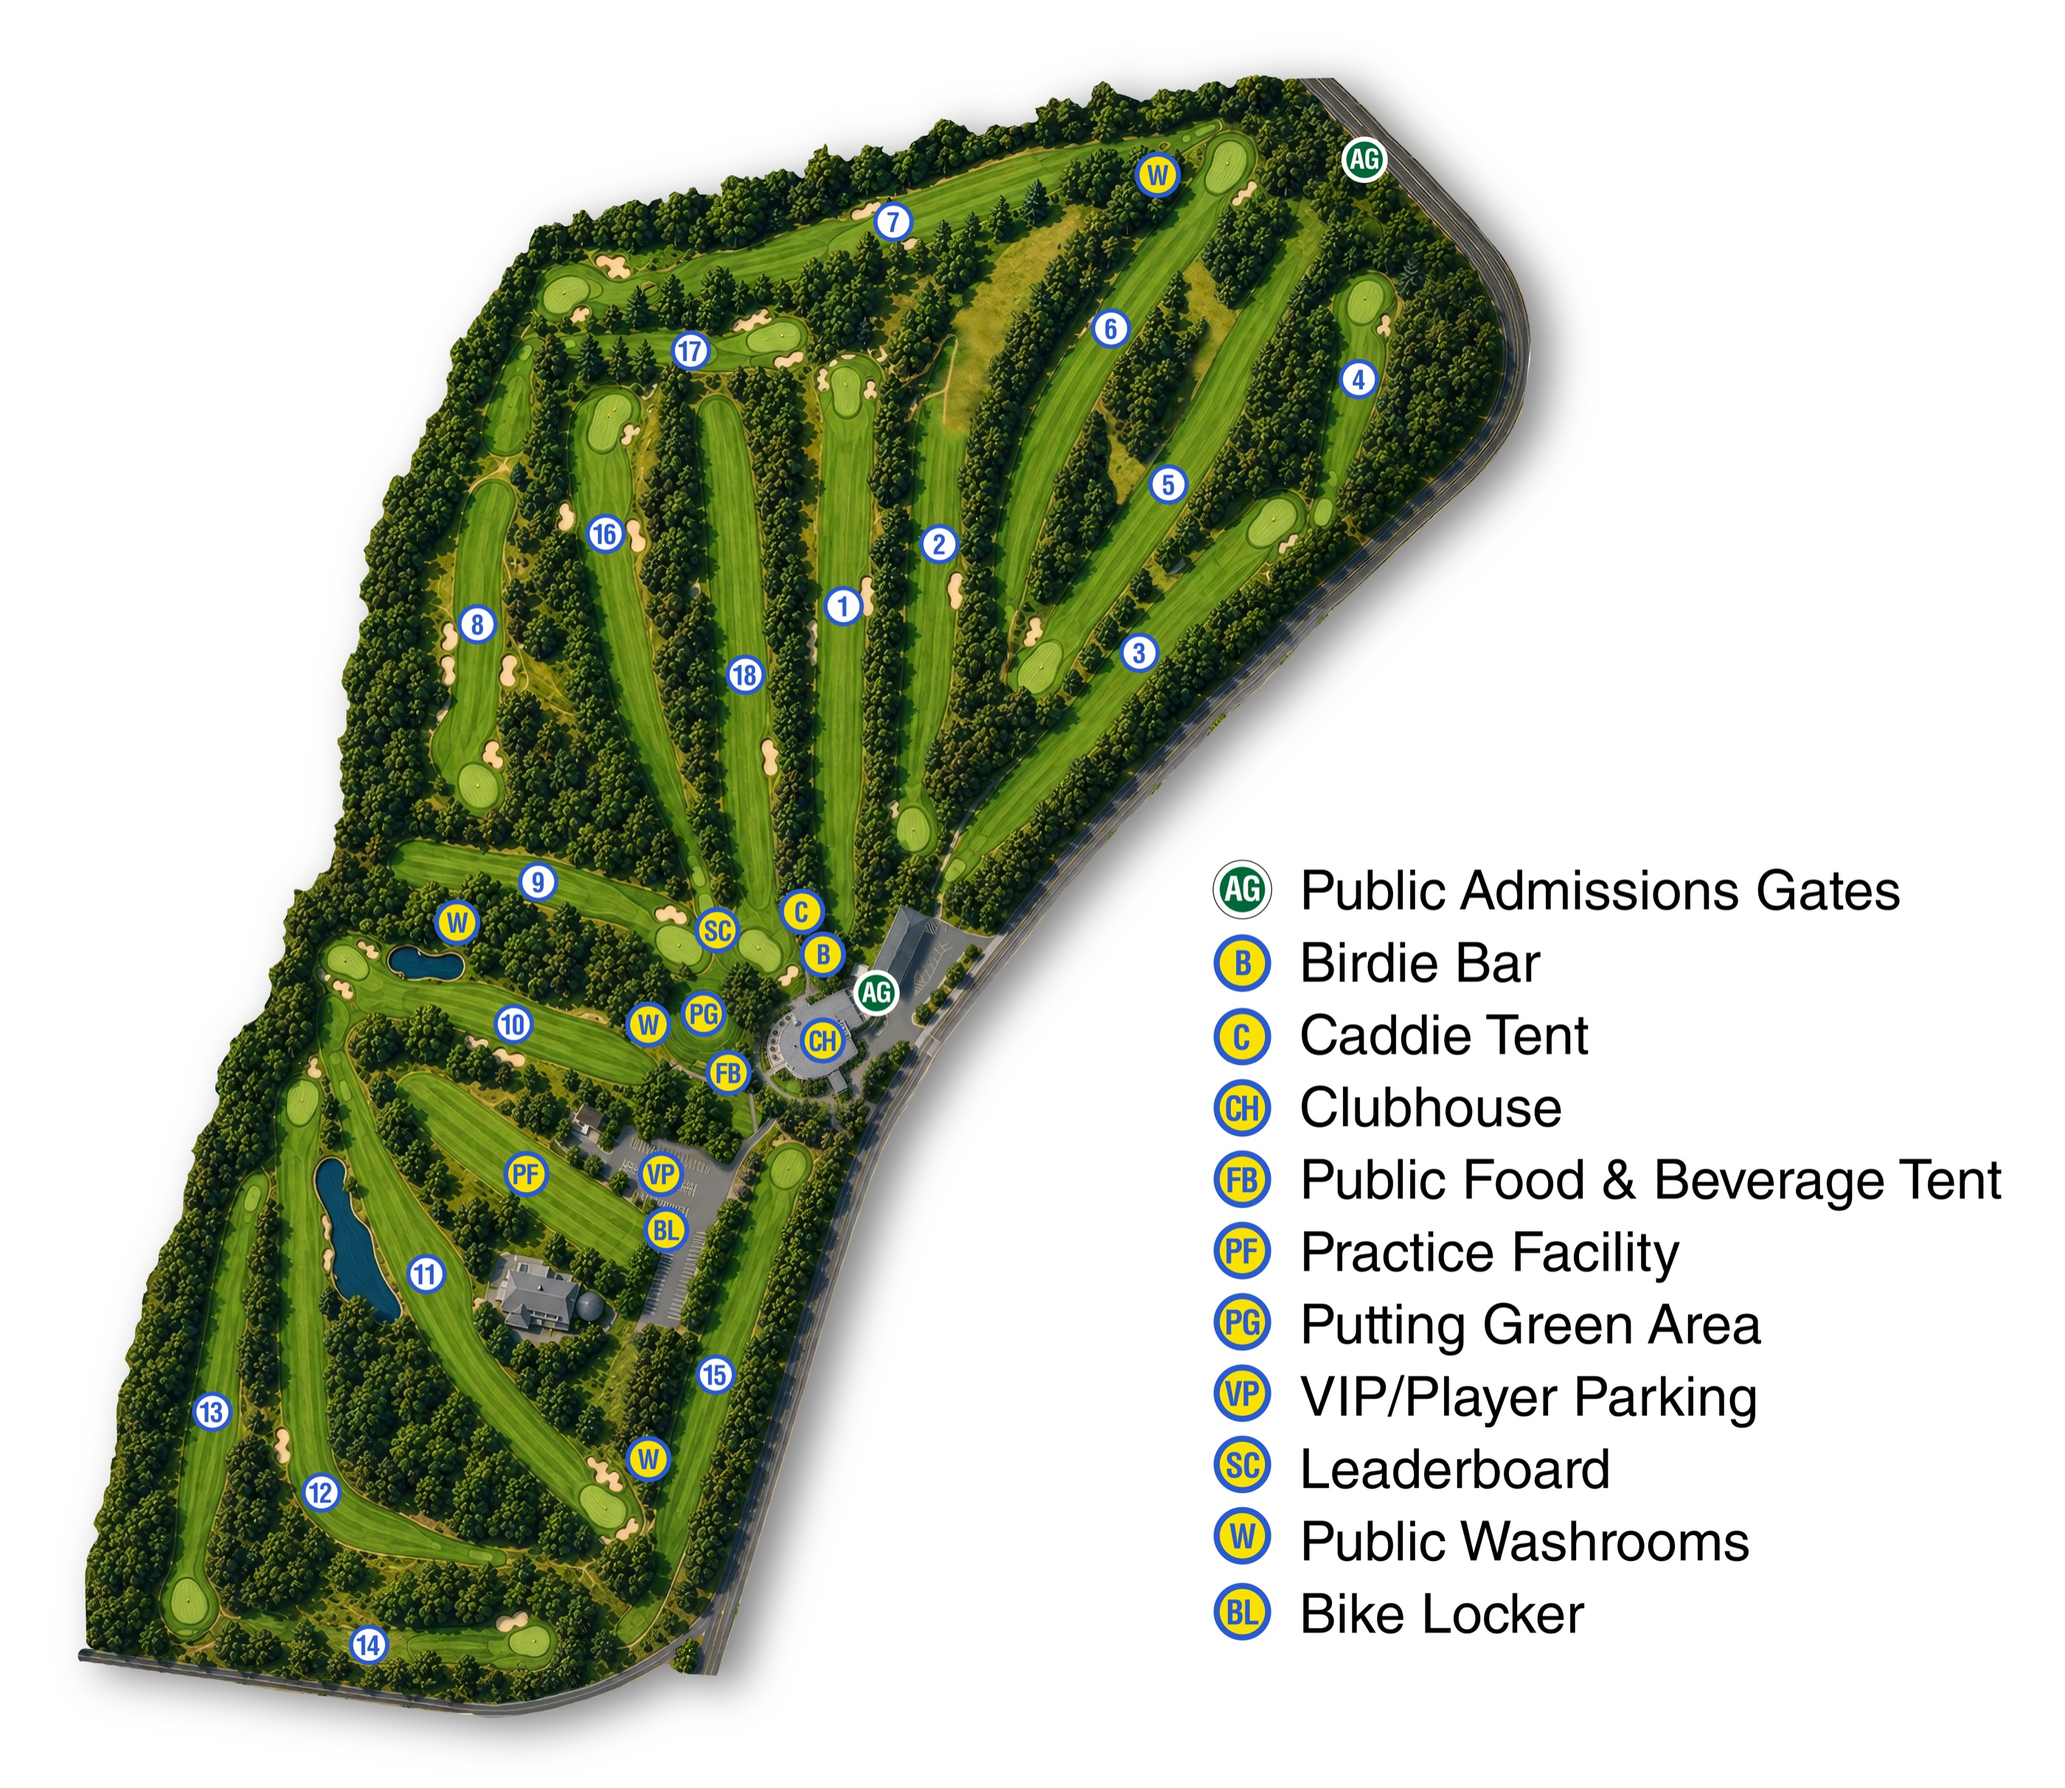
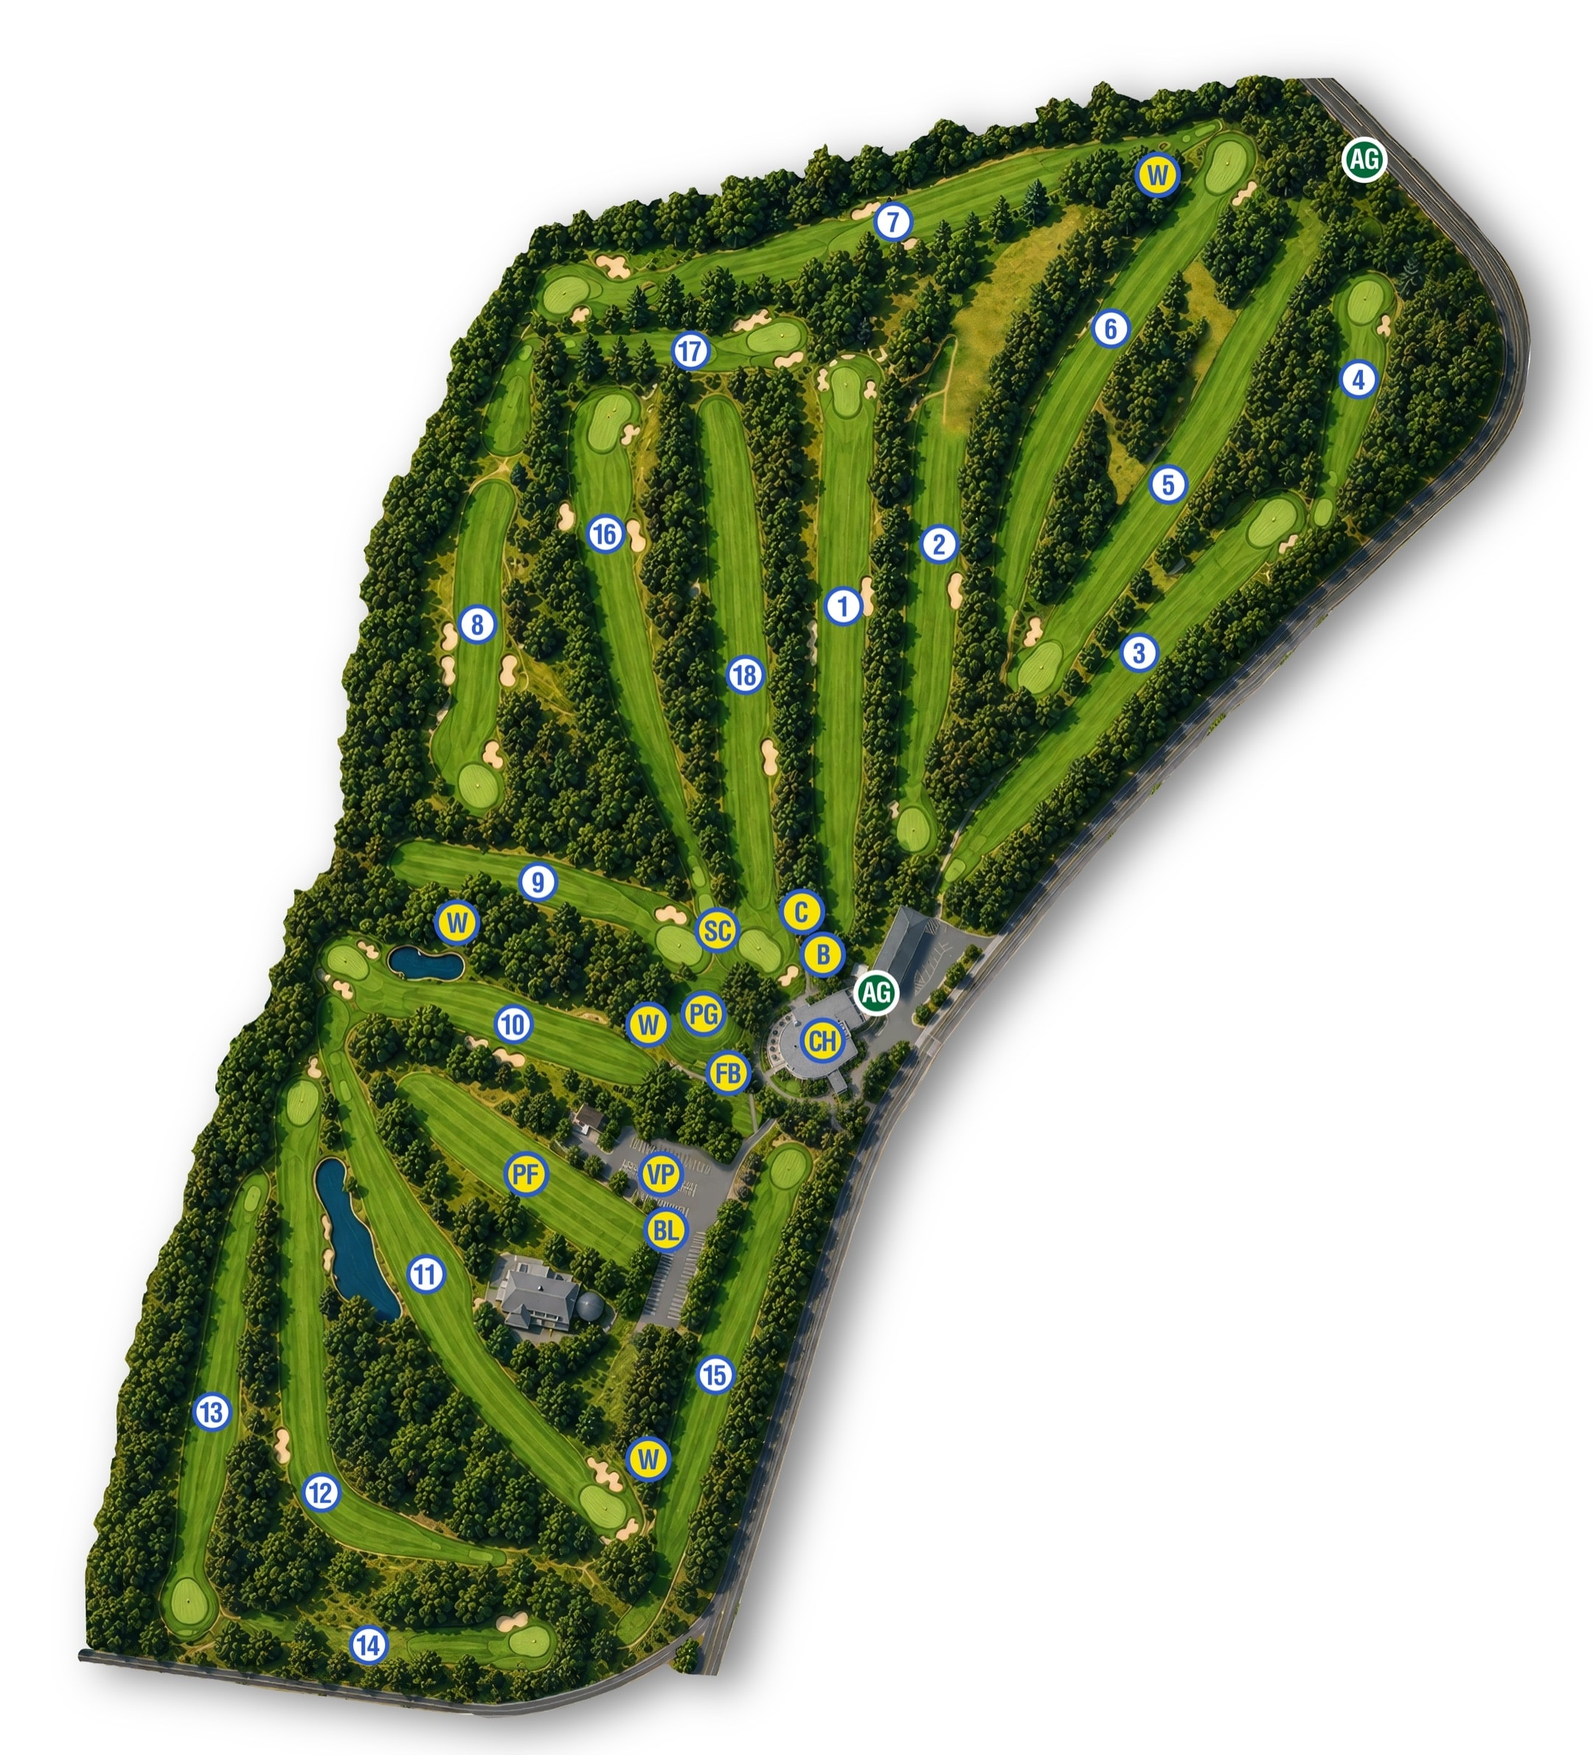
Crop course map legend

diff --git a/index.html b/index.html
@@ -891,7 +891,7 @@
     }
     .map-head > p { max-width: 570px; margin: 0; color: var(--muted); line-height: 1.75; }
     .map-frame { position: relative; display: block; padding: 10px; overflow: hidden; border: 1px solid var(--line); background: white; box-shadow: var(--shadow); }
-    .map-image-stage { position: relative; aspect-ratio: 3366 / 2916; overflow: hidden; background: white; }
+    .map-image-stage { position: relative; aspect-ratio: 2160 / 2380; overflow: hidden; background: white; }
     .map-canvas { position: absolute; inset: 0; }
     .map-image-link { width: 100%; height: 100%; padding: 0; display: block; border: 0; background: transparent; cursor: zoom-in; }
     .map-frame img { width: 100%; height: 100%; display: block; object-fit: contain; background: white; }
@@ -1217,7 +1217,7 @@
       .map-explorer { grid-template-columns: minmax(0,1.45fr) minmax(360px,.8fr); align-items: start; gap: 16px; }
       .map-explorer .map-visual-column { height: auto; }
       .map-explorer .map-frame { height: auto; }
-      .map-explorer .map-image-stage { height: auto; min-height: 0; aspect-ratio: 3366 / 2916; }
+      .map-explorer .map-image-stage { height: auto; min-height: 0; aspect-ratio: 2160 / 2380; }
       .map-explorer .map-canvas {
         inset: 0; left: auto; top: auto; width: auto; height: auto; aspect-ratio: auto;
         transform: none;
@@ -1713,21 +1713,21 @@
                   <button type="button" class="map-image-link" id="map-zoom-open" aria-label="Enlarge the official Uplands course map">
                     <img src="assets/uplands-course-map-2026.jpg" alt="2026 Digital Commerce Group Open spectator map of Uplands Golf Club" loading="lazy">
                   </button>
-                  <span class="map-pointer" data-map-point="AG" style="--x:66.6%;--y:8.9%" aria-hidden="true">AG</span>
-                  <span class="map-pointer" data-map-point="AG" style="--x:42.5%;--y:55.4%" aria-hidden="true">AG</span>
-                  <span class="map-pointer" data-map-point="B" style="--x:40%;--y:53.4%" aria-hidden="true">B</span>
-                  <span class="map-pointer" data-map-point="C" style="--x:38.9%;--y:50.9%" aria-hidden="true">C</span>
-                  <span class="map-pointer" data-map-point="CH" style="--x:39.9%;--y:58.1%" aria-hidden="true">CH</span>
-                  <span class="map-pointer" data-map-point="FB" style="--x:35.1%;--y:60%" aria-hidden="true">FB</span>
-                  <span class="map-pointer" data-map-point="PF" style="--x:25.5%;--y:65.8%" aria-hidden="true">PF</span>
-                  <span class="map-pointer" data-map-point="PG" style="--x:34.1%;--y:56.8%" aria-hidden="true">PG</span>
-                  <span class="map-pointer" data-map-point="VP" style="--x:32.1%;--y:65.8%" aria-hidden="true">VP</span>
-                  <span class="map-pointer" data-map-point="SC" style="--x:34.8%;--y:52%" aria-hidden="true">SC</span>
-                  <span class="map-pointer" data-map-point="W" style="--x:56.1%;--y:9.7%" aria-hidden="true">W</span>
-                  <span class="map-pointer" data-map-point="W" style="--x:22.2%;--y:52%" aria-hidden="true">W</span>
-                  <span class="map-pointer" data-map-point="W" style="--x:31.3%;--y:57.1%" aria-hidden="true">W</span>
-                  <span class="map-pointer" data-map-point="W" style="--x:31.3%;--y:81.6%" aria-hidden="true">W</span>
-                  <span class="map-pointer" data-map-point="BL" style="--x:32.3%;--y:69.4%" aria-hidden="true">BL</span>
+                  <span class="map-pointer" data-map-point="AG" style="--x:86.3%;--y:9.1%" aria-hidden="true">AG</span>
+                  <span class="map-pointer" data-map-point="AG" style="--x:55.1%;--y:56.4%" aria-hidden="true">AG</span>
+                  <span class="map-pointer" data-map-point="B" style="--x:51.9%;--y:54.4%" aria-hidden="true">B</span>
+                  <span class="map-pointer" data-map-point="C" style="--x:50.4%;--y:51.9%" aria-hidden="true">C</span>
+                  <span class="map-pointer" data-map-point="CH" style="--x:51.7%;--y:59.2%" aria-hidden="true">CH</span>
+                  <span class="map-pointer" data-map-point="FB" style="--x:45.5%;--y:61.1%" aria-hidden="true">FB</span>
+                  <span class="map-pointer" data-map-point="PF" style="--x:33.1%;--y:67%" aria-hidden="true">PF</span>
+                  <span class="map-pointer" data-map-point="PG" style="--x:44.2%;--y:57.9%" aria-hidden="true">PG</span>
+                  <span class="map-pointer" data-map-point="VP" style="--x:41.6%;--y:67%" aria-hidden="true">VP</span>
+                  <span class="map-pointer" data-map-point="SC" style="--x:45.1%;--y:53%" aria-hidden="true">SC</span>
+                  <span class="map-pointer" data-map-point="W" style="--x:72.7%;--y:9.9%" aria-hidden="true">W</span>
+                  <span class="map-pointer" data-map-point="W" style="--x:28.8%;--y:53%" aria-hidden="true">W</span>
+                  <span class="map-pointer" data-map-point="W" style="--x:40.6%;--y:58.2%" aria-hidden="true">W</span>
+                  <span class="map-pointer" data-map-point="W" style="--x:40.6%;--y:83.1%" aria-hidden="true">W</span>
+                  <span class="map-pointer" data-map-point="BL" style="--x:41.9%;--y:70.7%" aria-hidden="true">BL</span>
                 </div>
               </div>
             </div>
